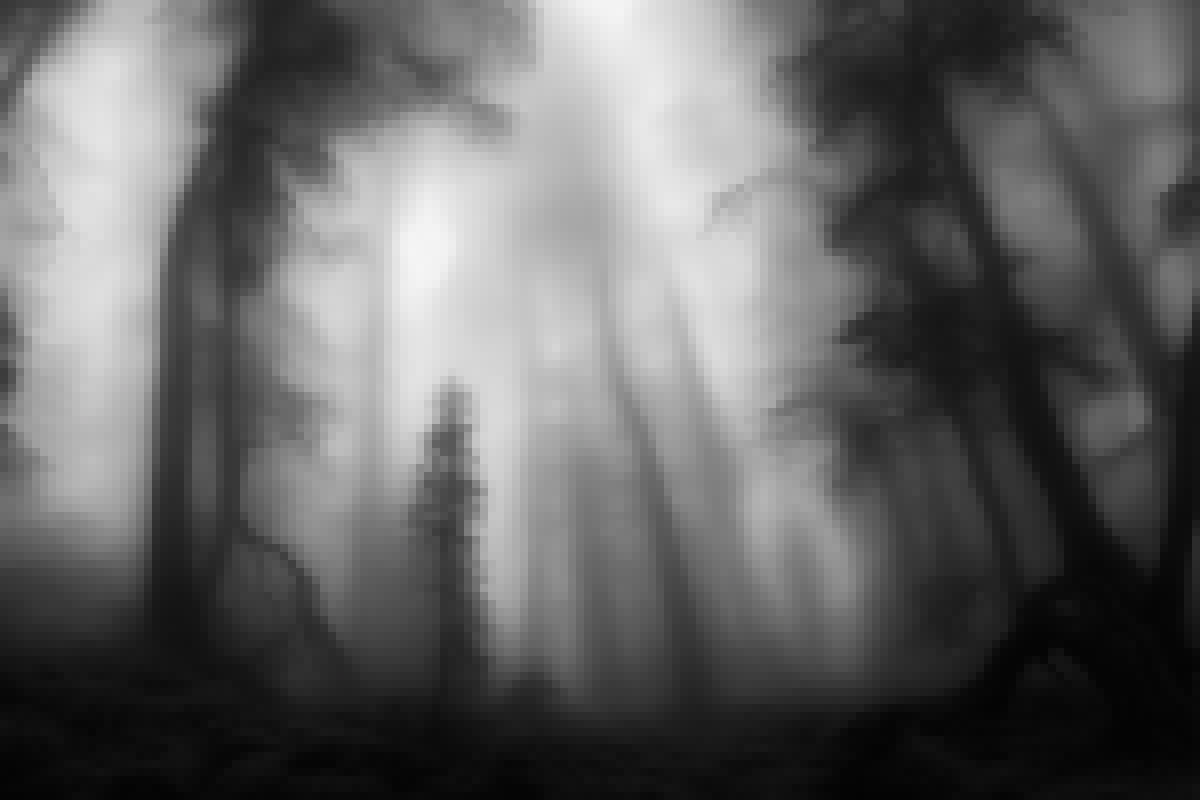
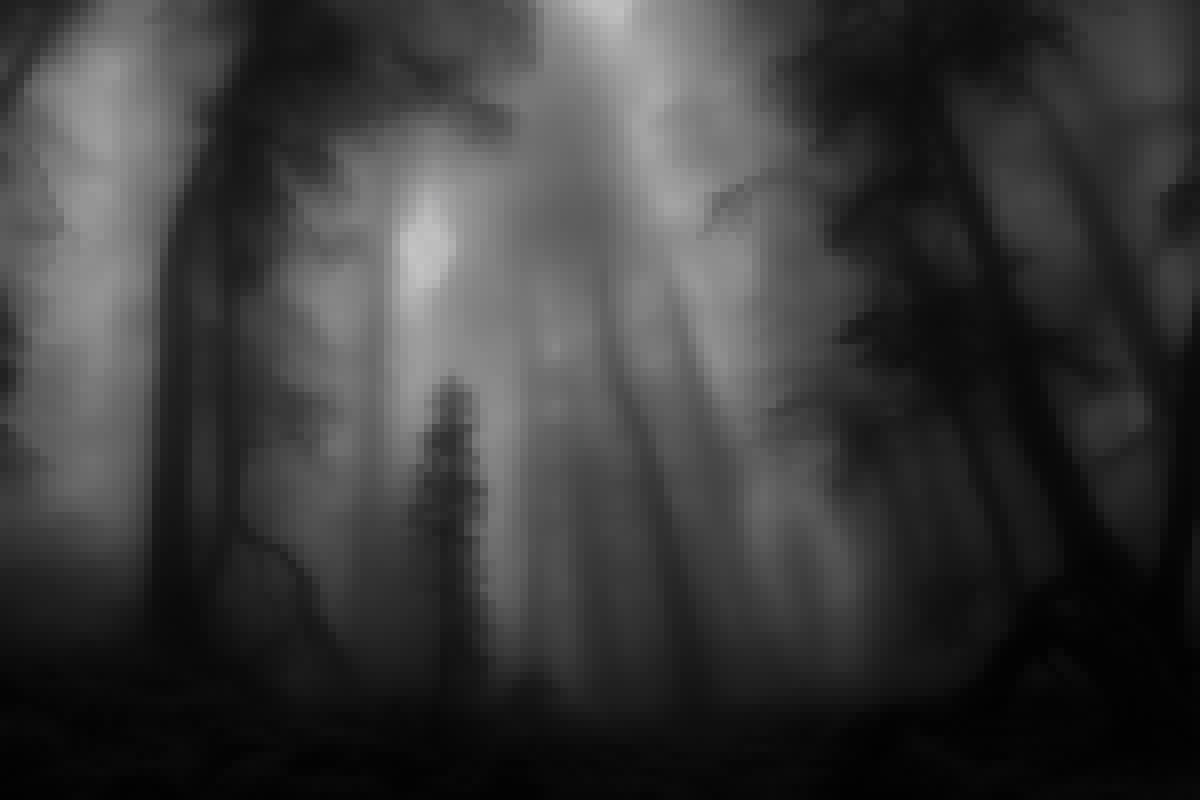
Adjustments to wakeup graphics.

diff --git a/StartScreen.java b/StartScreen.java
@@ -45,6 +45,19 @@ public class StartScreen extends JFrame {
     public JButton snails = new JButton("Grab the snails.");
     public JButton silverweed = new JButton("Prepare the silverweed for eating.");
 
+    ImageIcon creek_background = new ImageIcon("assets/creek_background.png");
+    JLabel creek_background_label = new JLabel(creek_background);
+    ImageIcon forest_background = new ImageIcon("assets/forest.png");
+    JLabel forest_background_label = new JLabel(forest_background);
+    ImageIcon night_background = new ImageIcon("assets/night.png");
+    JLabel night_background_label = new JLabel(night_background);
+    ImageIcon playground_background = new ImageIcon("assets/playground.png");
+    JLabel playground_background_label = new JLabel(playground_background);
+    ImageIcon wakeup_background = new ImageIcon("assets/wakeup.png");
+    JLabel wakeup_background_label = new JLabel(wakeup_background);
+    ImageIcon life_death_background = new ImageIcon("assets/life_death.png");
+    JLabel life_death_background_label = new JLabel(life_death_background);
+
 
     PlayerInventory player_inventory = new PlayerInventory();
     InventoryPanel inven_panel = new InventoryPanel(player_inventory);
@@ -135,6 +148,7 @@ public class StartScreen extends JFrame {
     }
 
     public void createGameScreen() {
+        wakeup_background_label.setBounds(0, 0, 1200, 800);
         title_name_panel.setVisible(false);
         button_panel.setVisible(false);
         // ProgressBar humanity_progress = new ProgressBar();
@@ -145,7 +159,7 @@ public class StartScreen extends JFrame {
 
         // ProgressBarPanel progress_panel = new ProgressBarPanel(humanity_progress, life_progress);
         progress_panel.setBounds(25, 25, 200, 100); // x, y, width, height
-        progress_panel.setBackground(Color.black);
+        progress_panel.setBackground(new Color(0, 0, 0, 0));
 
 
         // PlayerInventory player_inventory = new PlayerInventory();
@@ -153,10 +167,11 @@ public class StartScreen extends JFrame {
         // InventoryPanel inven_panel = new InventoryPanel(player_inventory);
         inven_panel.setBounds(900, 25, 200, 200);
         inven_panel.updateInventory(player_inventory);
+        inven_panel.setBackground(new Color(0, 0, 0, 0));
 
         story_text = new JTextArea();
         story_text.setBounds(0, 0, 700, 300);
-        story_text.setBackground(Color.black);
+        story_text.setBackground(new Color(0, 0, 0, 0));
         story_text.setForeground(Color.white);
         story_text.setLineWrap(true);
         story_text.setText("Your back hurts. The hastily made campsite last night didn't do you any favors, and the chronic fatigue is already beginning to set in.");
@@ -166,16 +181,17 @@ public class StartScreen extends JFrame {
         story_panel = new JPanel();
         story_panel.setLayout(new FlowLayout(FlowLayout.CENTER));
         story_panel.setBounds(100, 500, 900, 300);
-        story_panel.setBackground(Color.black);
+        story_panel.setBackground(new Color(0, 0, 0, 0));
         advance_story.setBackground(Color.black);
         advance_story.setForeground(Color.white);
 
         story_panel.add(story_text);
         story_panel.add(advance_story);
 
-        this.add(progress_panel);
-        this.add(inven_panel);
-        this.add(story_panel);
+        wakeup_background_label.add(progress_panel);
+        wakeup_background_label.add(inven_panel);
+        wakeup_background_label.add(story_panel);
+        this.add(wakeup_background_label);
 
         revalidate();
         repaint();
@@ -715,7 +731,7 @@ public class StartScreen extends JFrame {
         credits_text.setForeground(Color.white);
         credits_text.setFont(title_font);
         credits_text.setLineWrap(true);
-        credits_text.setText("Design: Katelyn Clark\nProgramming: Katelyn Clark\nAssets: Juliana Martinez\nSound: ??\nStory: Katelyn Clark\n\nCreated for Texas A&M's Chillennium Game Jam 2024.");
+        credits_text.setText("Design: Katelyn Clark\nProgramming: Katelyn Clark\nBackground Design: Juliana Martinez\nSound: ??\nStory: Katelyn Clark\n\nCreated for Texas A&M's Chillennium Game Jam 2024.");
         this.add(credits_background_label);
         credits_background_label.add(credits_text);
     }

diff --git a/InventoryPanel.java b/InventoryPanel.java
@@ -11,7 +11,7 @@ public class InventoryPanel extends JPanel {
         setLayout(new BoxLayout(this, BoxLayout.PAGE_AXIS));
         inventory = new JTextArea();
         // inventory.setBounds(800, 100, 300, 200);
-        inventory.setBackground(Color.black);
+        inventory.setBackground(new Color(0, 0, 0, 0));
         inventory.setForeground(Color.white);
         // credits_text.setFont(title_font);
         inventory.setLineWrap(true);
